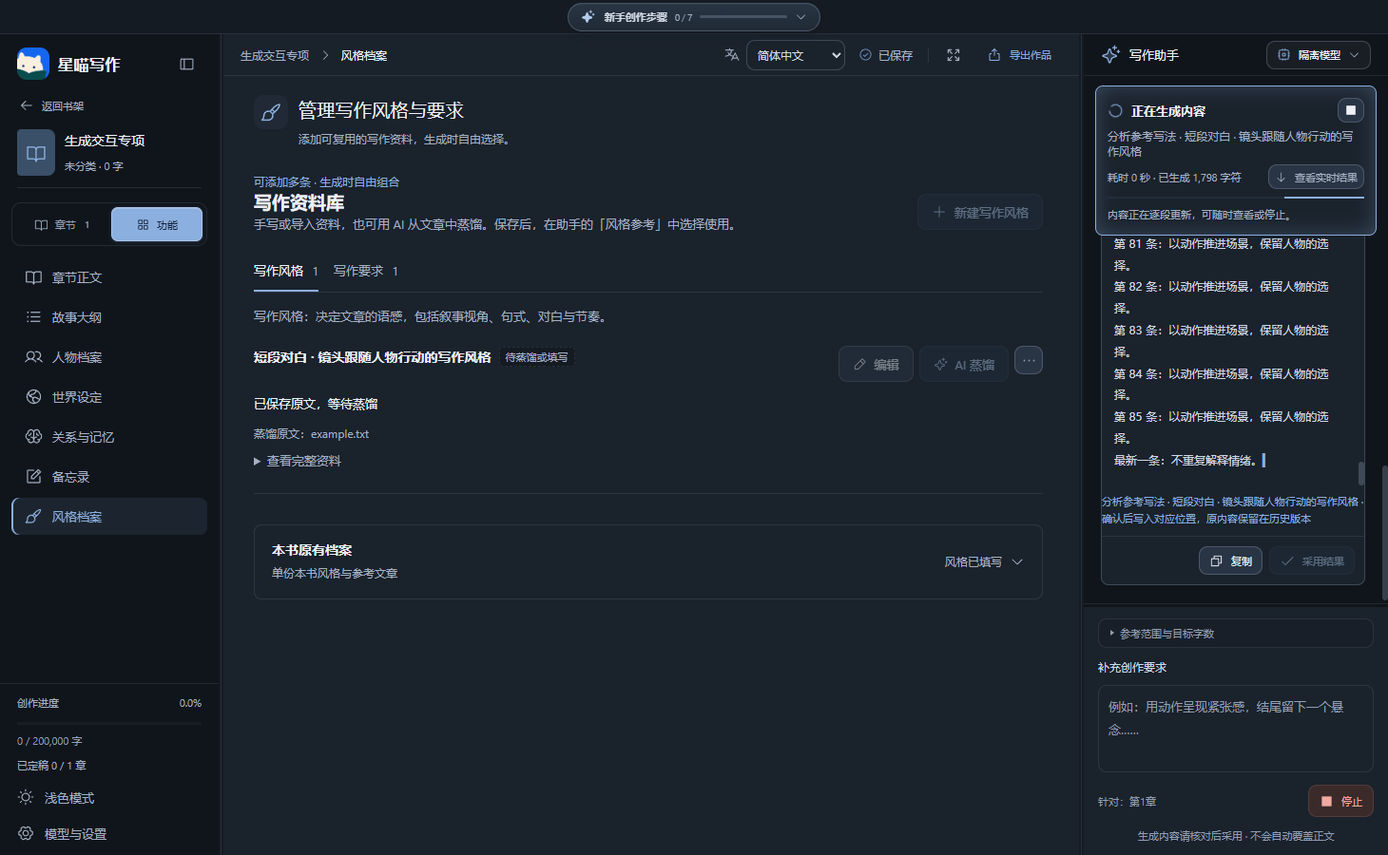
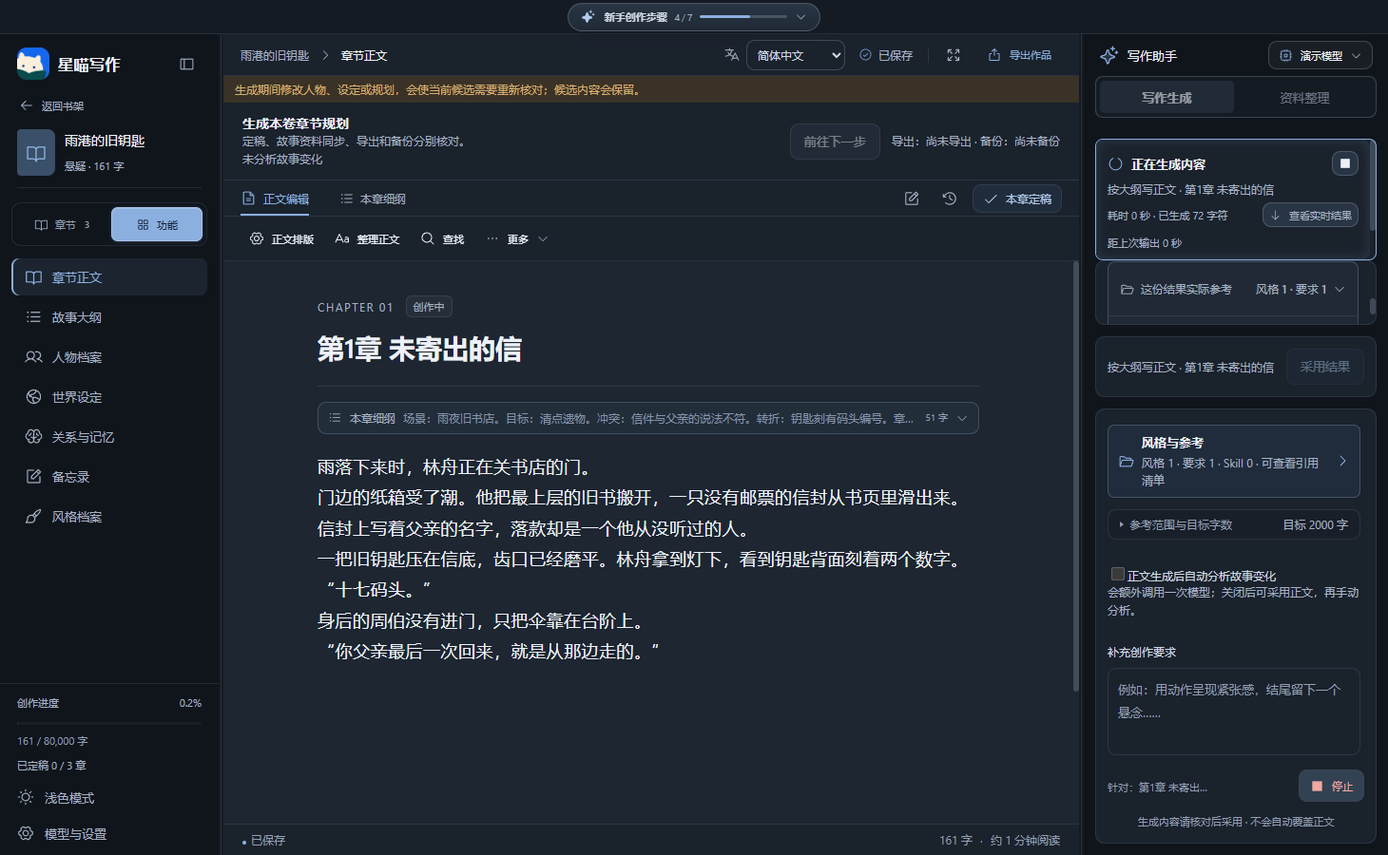
docs: release v0.6.10 with current full-edition screenshots and guides

diff --git a/docs/features.md b/docs/features.md
@@ -1,99 +1,27 @@
-# 星喵写作 v0.6.9 功能说明
+# 星喵写作 v0.6.10 功能说明
 
-## v0.6.9 风格选择与引用清单
+**会员免费，无需付费开通。** 完整版区分会员与普通用户，是为了管理创作广场提示词库及相关权限，不是收费套餐。第三方模型和生图费用由服务商决定。开源版不含账号和广场。
 
-- 生成按钮上方常驻风格与参考入口，显示选中数量并直达风格选择和当前引用清单
-- 多条风格和要求按页签、已选/可选层级展示，支持搜索名称与来源、只看已选、分别清空；长列表独立滚动
-- 引用清单按实际请求资料分组，定向蒸馏不误报其他作品资料；候选稿保留当时的引用快照
-- 资料库增加搜索与状态筛选，目标字数直接显示，窄窗口管理入口、较小设置区及空/失败状态更清楚
+## 主要功能
 
-[使用说明](风格选择与参考资料说明.md) · [本次检查](检查记录-v0.6.9.md)
+- 短篇由想法、简纲直接拆章；长篇按总纲、分卷、卷纲/细纲、章规划、正文逐步生成与采用，名称与内容同步到对应位置。
+- 人工码字板：独立草稿、专注计时、目标统计、查找替换、稿件历史与存入作品。
+- 写作助手：写作、续写、润色与检查，实际生成状态、停止入口、候选预览和防覆盖检查。正文变化分析可选，采用后仍可重新分析。
+- 资料整理助手：查询与调整人物、世界、关系、时间线、伏笔和规划资料；逐项核对采纳、重新核对、撤销与删除恢复。该助手不读取或修改章节正文、章纲、风格档案和备忘录。
+- 风格、要求与Skill：多条资料编辑、导入蒸馏、选择与删除；每次生成单独选择并核对实际引用。14项可编辑内置写法，默认不强制启用。
+- 本地书架、归档、分卷章节、人物世界、图谱、时间线、资料画布、备忘录、历史和回收站；中英界面及深浅主题。
+- 章节定稿后由作者确认完结，改稿取消完结；TXT/Markdown导出、JSON备份与副本恢复。
 
-## v0.6.8 生成反馈与风格页面优化
+## 数据与使用边界
 
-- 写作助手顶部常驻真实生成状态：准备资料、等待响应、接收内容、分析变化，显示耗时与已生成字符数
-- 生成中增加柔和流光边框、流动细线与旋转图标；支持减少动态效果，完成、停止与失败后结束动画
-- 流式内容跟随最新段落，向上阅读自动暂停，可一键恢复；中央生成入口直接定位本次候选，及时刷新模型暂停前的最后一段
-- 写作资料库按风格与要求说明用途，标示已选用、可选用或待填写；导出删除收入更多菜单，本书原有档案独立收起
+作品保存在本机，书库位置可在设置中更换。安装目录与书库独立，更新或迁移前请备份。
 
-[界面操作说明](生成进度与风格页面说明.md) · [本次检查](检查记录-v0.6.8.md)
+JSON备份包括最终作品资料、章节及历史、Skill和回收站；**不包含模型密钥、账号会话、资料整理对话及方案撤销历史**。恢复创建副本，旧对话不能用于撤销，但回收资料仍可恢复。
 
-## v0.6.7 风格与要求资料库
+AI请求把本次选中的正文和资料发送到配置的模型服务，输出需作者审核。本地模拟检查不代表真实模型质量或网络可用性。Windows x64安装包未配置代码签名证书。
 
-- 风格档案新增多条写作风格与写作要求，可新建、编辑、删除恢复、导入和导出
-- 支持为风格和要求分别导入原文并用 AI 蒸馏，预览后采用到指定条目，保留编辑历史
-- 本次参考资料新增风格参考，可分别选择多条风格和要求，仅发送选中内容并保留本次使用记录
-- 兼容原本书风格，新增资料随作品 JSON 备份恢复，阻止陈旧结果覆盖新资料
+## 版本范围
 
-[操作说明](风格与写作要求使用说明.md) · [本次检查](检查记录-v0.6.7.md)
+开源核心版包含上述共有功能。完整版另含工具箱、生图、账号、广场及更新，在线功能依赖对应服务端。
 
-## v0.6.6 广场删除修复
-
-上传者可以删除自己已添加到本机的共享内容，服务器继续核验身份；删除原件后本机副本保留。
-
-## v0.6.5 人工码字与界面更新
-
-- 人工码字板：临时稿、章节独立草稿、存入作品、冲突恢复、TXT 导出与稿件历史。
-- 专注计时、写作目标、查找替换、撤销与字体字号行距；正文排版与 AI 工作台共用规则。
-- 灵感助手、作品备忘录、整篇/片段引用；生成讨论与正式正文分开。
-- 分组工具栏、可收起侧栏与窄屏适配；分卷父层级、本卷章节与完成状态更清晰。
-
-[人工码字操作说明](人工码字板使用说明.md)
-
-**会员免费，无需付费开通。** 完整版中的会员与普通用户区分，仅用于方便管理广场提示词库、区分相关权限，不是收费套餐。第三方 AI 模型和生图 API 可能由服务商计费，与免费会员无关。开源核心版不包含账号、会员和广场模块。
-
-检查与整理日期：2026-10-09。适用 Windows x64；离线编辑不需要账号，AI 任务需要用户自己的模型服务。
-
-## 分步创作
-
-想法 → 全文大纲 → 分卷 → 卷大纲/细纲 → 章节大纲/细纲 → 正文 → 完成。每步生成后预览、采用，卷名、章名和内容会写入对应位置，并提示下一步。
-
-[完整操作与采用规则](分步创作流程与采用说明.md) · [本次检查记录](检查记录-v0.6.4.md)
-
-## 功能地图
-
-| 模块 | 目前可用能力 | 使用说明 |
-| --- | --- | --- |
-| 书架 | 新建、搜索、最近作品、归档、删除、回收站 | 示例由用户主动创建，不混入真实作品 |
-| 正文与章节 | 自动保存、手动保存、专注、字号、字数、查找、复制、章节复制、定稿、历史恢复 | 切章、返回书架和正常关闭前会等待保存；强制断电仍可能丢失尚未保存的修改 |
-| 大纲与分卷 | 总纲、分卷、卷大纲/细纲、章节概要/细纲、归卷、目标字数 | 删除分卷保留章节；分步 AI 结果先预览再采用 |
-| 人物与世界 | 人物档案、世界背景、身份/阵营/生存变化、世界事件 | 已发生、计划、待复核分开；修改旧章会使相关来源失效 |
-| 图谱与时间线 | 拖动缩放、连线编辑、按章回看、多种时间线布局 | 生成采用章首事实，后续章节不会当作已经发生 |
-| 资料画布 | 常规/画布切换、节点拖动、位置保存、标注与来源编辑 | 布局与标注不会自动改写正式事实；来源编辑复用原功能 |
-| 作者资料 | 备忘录、规则、伏笔、风格、参考原文与结构化记忆 | 风格参考支持 UTF-8 TXT/Markdown；不导入 DOCX/PDF |
-| AI 写作 | 写正文、续写、润色、总纲/卷纲/章纲、人物、世界、检查、风格分析、记忆提取 | 结果先放候选区，采用前检查原文和上下文是否变化 |
-| 同步审核 | 生成后分析人物/关系/世界变化，证据审核与勾选确认 | 分析失败保留正文；确认采用后才写入正式资料 |
-| 模型 | 多套配置、连接测试、兼容 Chat Completions、自选输出参数、可选本机 Codex | API 密钥使用 Windows 加密存储；不同接口需自行确认兼容性 |
-| 本地 Skill | 创建、编辑、启停、任务绑定、SKILL.md 导入导出 | 仅复用文字指令，不执行脚本 |
-| 备份与输出 | 整书 Markdown、单章 TXT、JSON 副本恢复、回收站 | JSON 保留作品、版本、资料、画布与候选，不包含 API 密钥和账号会话；系统设置不是完整备份范围 |
-| 数据目录 | 查看、打开、更换、迁移、恢复默认 | 更换后需重启；迁移保留原库和目标旧库，切勿把目录放进安装位置 |
-| 界面 | 简体中文/English、深浅主题、紧凑布局 | 英文长度显示为字符数，不是英文单词数 |
-| 创意工具箱（完整版） | 脑洞、书名、简介、大纲、细纲、开篇、金手指、名字、人设、世界、词条、对标辅助 | 文字生成需要模型；对标任务要求提炼抽象机制、生成原创方案 |
-| 封面（完整版） | OpenAI Images 兼容接口生成、预览与保存 | 另配生图地址、模型和密钥；封面生成结果不保证精确排字 |
-| 账号与广场（完整版） | 飞书登录、在线等级校验、提示词/Skill 浏览、上传、下载和添加使用 | 依赖维护者的远程服务；开源核心版不包含这些服务 |
-| 更新（完整版） | 检查、下载、取消、安装重启与安装前备份 | 使用 HTTPS 更新源；更新时显示安装向导并可选择目录 |
-
-## 更新安装目录
-
-更新安装会打开安装向导，允许选择安装目录；新版客户端默认带入当前程序所在目录。v0.6.4 安装包收到旧客户端的静默更新请求时，也会显示向导，请在安装前确认目录位于你希望的磁盘。安装目录与书库目录独立，更换安装位置不会自动迁移作品。
-
-## 新用户操作顺序
-
-1. 安装对应版本，打开示例体验或新建作品。
-2. 填写简介、总纲、人物和世界资料，建立分卷和章节。
-3. 手动编辑即可离线写作；需要 AI 时打开“模型与设置”配置自己的接口或本机 Codex。
-4. 生成结果先审阅；采用后检查正文，再审核资料同步清单。
-5. 章节稳定后定稿和提取记忆；修改前文后复核失效记忆。
-6. 定期导出 JSON 备份；跨完整/开源版本迁移用备份恢复，不直接替换正在运行的数据库。
-
-## 版本与数据
-
-完整软件和开源版使用独立书库；数据路径以设置中实际显示为准。安装程序不包含个人作品或预置密钥。卸载配置保留书库，但仍建议先导出备份。
-
-正文发送给所配置的 AI 服务仅发生在用户启动相关任务时；在线账号/广场另连维护者服务。没有配置模型也能使用本地编辑、资料和备份。API 服务可能计费，自动资料分析也可能产生额外请求。
-
-## 当前边界
-
-目前没有多人协作/跨设备云同步、向量检索、自动重建全部失效记忆、DOCX/PDF 导入导出、全书批量查找替换、拖动调整章序、备份定时任务和用户可见的备份轮换管理。AI 连续性检查与来源校验不能保证故事零矛盾。
-
-封面生成没有专门的停止入口。在线登录、供应商模型、封面接口与实际更新下载受远程服务状态影响，本次自动回归使用模拟服务，不能替代真实账号和网络验收。
+[资料整理](资料整理使用说明.md) · [创作步骤](分步创作流程与采用说明.md) · [人工码字](人工码字板使用说明.md) · [本次验证](检查记录-v0.6.10.md)

diff --git a/README.md b/README.md
@@ -1,91 +1,77 @@
 # 星喵写作 · 完整版下载
 
-**会员免费，无需付费开通。** 完整版中的会员与普通用户区分，仅用于方便管理广场提示词库、区分相关权限，不是收费套餐。第三方 AI 模型和生图 API 可能由服务商计费，与免费会员无关。开源核心版不包含账号、会员和广场模块。
+本地小说工作台，支持人工码字、AI写作与资料整理。本仓库分发完整版软件；[MIT核心源码](https://github.com/z55902383-debug/xingmiao-writer-core)单独维护。
 
-本地优先的 Windows AI 小说工作台。本仓库用于分发完整软件；[开源核心源码](https://github.com/z55902383-debug/xingmiao-writer-core)单独维护。
+**v0.6.10 · Windows x64**
 
-## 下载
+[下载完整版安装包](https://github.com/z55902383-debug/xingmiao-writer-releases/releases/download/v0.6.10/XingmiaoWriter-0.6.10-x64-Setup.exe) · [开源版](https://github.com/z55902383-debug/xingmiao-writer-core/releases/tag/v0.6.10) · [更新与附件](https://github.com/z55902383-debug/xingmiao-writer-releases/releases/tag/v0.6.10)
 
-- [完整版 v0.6.9 Windows x64 安装包](https://github.com/z55902383-debug/xingmiao-writer-releases/releases/download/v0.6.9/XingmiaoWriter-0.6.9-x64-Setup.exe)
-- [开源核心版安装包](https://github.com/z55902383-debug/xingmiao-writer-core/releases/download/v0.6.9/XingmiaoWriter-Core-0.6.9-x64-Setup.exe)
-- [完整版更新与附件](https://github.com/z55902383-debug/xingmiao-writer-releases/releases/tag/v0.6.9)
+**会员免费，无需付费开通。** 完整版区分会员与普通用户，是为了管理创作广场提示词库及相关权限，不是收费套餐。第三方模型和生图费用由服务商决定。开源版不含账号和广场。
 
-## v0.6.9 风格选择与引用清单
+## 界面预览
 
-- 生成按钮上方常驻风格与参考入口，显示选中数量并直达风格选择和当前引用清单
-- 多条风格和要求按页签、已选/可选层级展示，支持搜索名称与来源、只看已选、分别清空；长列表独立滚动
-- 引用清单按实际请求资料分组，定向蒸馏不误报其他作品资料；候选稿保留当时的引用快照
-- 资料库增加搜索与状态筛选，目标字数直接显示，窄窗口管理入口、较小设置区及空/失败状态更清楚
+v0.6.10实际界面，以独立演示作品拍摄，不含个人书库、密钥或账号会话。
 
-[使用说明](docs/风格选择与参考资料说明.md) · [本次检查](docs/检查记录-v0.6.9.md)
+![当前书架](docs/assets/library.png)
 
-![常驻风格入口与多条参考选择](docs/assets/reference-controls.png)
+### 写作与规划
 
-## v0.6.8 生成反馈与风格页面优化
+![写作工作台](docs/assets/workspace.png)
 
-- 写作助手顶部常驻真实生成状态：准备资料、等待响应、接收内容、分析变化，显示耗时与已生成字符数
-- 生成中增加柔和流光边框、流动细线与旋转图标；支持减少动态效果，完成、停止与失败后结束动画
-- 流式内容跟随最新段落，向上阅读自动暂停，可一键恢复；中央生成入口直接定位本次候选，及时刷新模型暂停前的最后一段
-- 写作资料库按风格与要求说明用途，标示已选用、可选用或待填写；导出删除收入更多菜单，本书原有档案独立收起
+![分卷与章节规划](docs/assets/planning.png)
 
-[界面操作说明](docs/生成进度与风格页面说明.md) · [本次检查](docs/检查记录-v0.6.8.md)
+### 资料整理与风格参考
 
-![生成时常驻的助手进度](docs/assets/generation-activity.png)
+![资料整理助手](docs/assets/knowledge-assistant.png)
 
-![资料库与原本书档案分层](docs/assets/writing-profile-library.png)
+![写作风格与要求资料库](docs/assets/writing-profile-library.png)
 
-## v0.6.7 风格与要求资料库
+![每次生成的风格、Skill与参考选择](docs/assets/reference-controls.png)
 
-- 风格档案新增多条写作风格与写作要求，可新建、编辑、删除恢复、导入和导出
-- 支持为风格和要求分别导入原文并用 AI 蒸馏，预览后采用到指定条目，保留编辑历史
-- 本次参考资料新增风格参考，可分别选择多条风格和要求，仅发送选中内容并保留本次使用记录
-- 兼容原本书风格，新增资料随作品 JSON 备份恢复，阻止陈旧结果覆盖新资料
+### 人工码字
 
-[操作说明](docs/风格与写作要求使用说明.md) · [本次检查](docs/检查记录-v0.6.7.md)
+![人工码字板](docs/assets/manual-writing.png)
 
-## v0.6.6 广场删除修复
+<details><summary>浅色书架、生成状态与设置</summary>
 
-修复已添加到本机的资源无法点击删除的问题。服务器继续核验上传者，删除共享原件后保留本机副本。[更新与验证](docs/广场删除修复-v0.6.6.md)
+![浅色书架](docs/assets/library-light.png)
 
-## 功能
+![生成状态](docs/assets/generation-activity.png)
 
-书架、章节与分卷、大纲、人物与世界、关系图谱、时间线、资料画布、AI 写作与候选审核、来源记忆、本地 Skill、历史版本、备份恢复、中英双语与深浅主题。
+![模型与本地设置](docs/assets/settings.png)
 
-完整版另含创意工具箱、封面生成、飞书账号、会员与共享广场服务及安装更新。离线编辑无需登录；AI 和生图需要自己的模型配置，可能产生费用。账号与广场依赖维护者的在线服务。
+![用户名密码登录入口](docs/assets/account-login.png)
 
-[功能说明](docs/features.md) · [检查报告与已知限制](docs/检查记录-v0.6.7.md)
+</details>
 
-## 分步创作流程
+## 主要功能
 
-想法 → 全文大纲 → 分卷 → 卷大纲/细纲 → 章节大纲/细纲 → 正文 → 完成。逐步生成并采用，同步卷名、章名与内容，保留已有正文并提示下一步。长规划改为摘要预览和完整阅读。
+- 短篇由想法、简纲直接拆章；长篇按总纲、分卷、卷纲/细纲、章规划、正文逐步生成与采用，名称与内容同步到对应位置。
+- 人工码字板：独立草稿、专注计时、目标统计、查找替换、稿件历史与存入作品。
+- 写作助手：写作、续写、润色与检查，实际生成状态、停止入口、候选预览和防覆盖检查。正文变化分析可选，采用后仍可重新分析。
+- 资料整理助手：查询与调整人物、世界、关系、时间线、伏笔和规划资料；逐项核对采纳、重新核对、撤销与删除恢复。该助手不读取或修改章节正文、章纲、风格档案和备忘录。
+- 风格、要求与Skill：多条资料编辑、导入蒸馏、选择与删除；每次生成单独选择并核对实际引用。14项可编辑内置写法，默认不强制启用。
+- 本地书架、归档、分卷章节、人物世界、图谱、时间线、资料画布、备忘录、历史和回收站；中英界面及深浅主题。
+- 章节定稿后由作者确认完结，改稿取消完结；TXT/Markdown导出、JSON备份与副本恢复。
 
-[操作与采用规则](docs/分步创作流程与采用说明.md) · [本次检查](docs/检查记录-v0.6.5.md)
+## 完整版附加功能
 
-## v0.6.5 人工码字与界面更新
+创意工具箱、封面生图、账号、会员、共享广场及安装更新。离线编辑无需登录。账号和广场依赖维护者后端；用户名密码入口需要服务端部署相应账号接口。手机号是联系信息，不用于自动证明账号归属。AI与生图需要自己的服务配置。
 
-- 人工码字板：临时稿、章节独立草稿、存入作品、冲突恢复、TXT 导出与稿件历史。
-- 专注计时、写作目标、查找替换、撤销与字体字号行距；正文排版与 AI 工作台共用规则。
-- 灵感助手、作品备忘录、整篇/片段引用；生成讨论与正式正文分开。
-- 分组工具栏、可收起侧栏与窄屏适配；分卷父层级、本卷章节与完成状态更清晰。
+## 安装与更新
 
-[人工码字操作说明](docs/人工码字板使用说明.md)
+下载Setup.exe按向导安装，可选择D盘等目录。更新先保存编辑内容并备份，再打开安装向导，默认带入当前程序目录；安装前请确认位置。安装位置变化不会自动迁移书库。
 
-## 更新安装目录
+## 数据与使用边界
 
-更新安装会打开安装向导，允许选择安装目录；新版客户端默认带入当前程序所在目录。v0.6.5 安装包收到旧客户端的静默更新请求时，也会显示向导，请在安装前确认目录位于你希望的磁盘。安装目录与书库目录独立，更换安装位置不会自动迁移作品。
+作品保存在本机，书库位置可在设置中更换。安装目录与书库独立，更新或迁移前请备份。
 
-## 安装与数据
+JSON备份包括最终作品资料、章节及历史、Skill和回收站；**不包含模型密钥、账号会话、资料整理对话及方案撤销历史**。恢复创建副本，旧对话不能用于撤销，但回收资料仍可恢复。
 
-下载 Setup.exe 安装。已带更新功能的完整版可在“模型与设置 → 版本与更新”检查、下载和安装。定期通过 JSON 导出作品备份。
+AI请求把本次选中的正文和资料发送到配置的模型服务，输出需作者审核。本地模拟检查不代表真实模型质量或网络可用性。Windows x64安装包未配置代码签名证书。
 
-完整版和开源版使用独立书库；跨版本迁移使用 JSON 备份/副本恢复，不互换运行中的数据库。安装包不包含个人作品或模型密钥。Windows x64 为本次交付平台，安装包未配置代码签名证书。
+## 说明与反馈
 
-## 版本与许可
+[功能说明](docs/features.md) · [资料整理](docs/资料整理使用说明.md) · [创作流程](docs/分步创作流程与采用说明.md) · [人工码字](docs/人工码字板使用说明.md) · [风格参考](docs/风格选择与参考资料说明.md) · [本次检查](docs/检查记录-v0.6.10.md)
 
-开源核心版包含主要本地写作工作台，采用 MIT。创意工具箱、生图、账号、会员、广场和内置更新属于完整版附加模块；核心源码 MIT 不表示所有完整版附加模块同样采用 MIT。
-
-安装包附带第三方运行时许可。AI 结果和故事连续性需要作者审核；真实模型、账号和网络环境的限制见检查报告。
-
-## 反馈
-
-请通过 Issues 附上版本、复现步骤和错误提示，不要上传 API 密钥、账号会话或私人小说。开发与贡献请访问[开源核心仓库](https://github.com/z55902383-debug/xingmiao-writer-core)。
+完整版附加模块未开源，核心MIT许可不覆盖附加模块。反馈通过Issues提供版本和复现步骤，不附账号会话、密钥或私人小说。

diff --git a/docs/检查记录-v0.6.10.md b/docs/检查记录-v0.6.10.md
@@ -1,0 +1,24 @@
+# v0.6.10 发布检查 · 2026-10-14
+
+## 本次范围
+
+更新短篇与长篇创作流程、资料整理助手、候选恢复、完结状态、提示词与Skill、风格参考及界面层级。完整版新增用户名密码账号入口与广场界面；账号可用性依赖维护者后端部署，此轮没有部署后端。
+
+两个GitHub首页均重拍当前版书架截图，并更新写作、规划、资料整理、风格与参考、人工码字、生成状态、设置、浅色主题截图；完整版另附登录入口截图。独立演示作品不来自作者书库。
+
+## 验证
+
+- 完整版190项、开源版158项单元测试通过。
+- 两版类型检查与前端构建通过，保留原有体积提示。
+- 两版新手短篇、生成后改稿恢复、分析重试、作者确认完结、导出及备份副本恢复检查通过。
+- 两版长篇从想法到两章正文、定稿和作者确认完结检查通过，包括1024×768生成按钮位置。
+- 两版资料整理专项与逐项采纳、重新核对、清空对话后删除恢复、回收记录备份专项通过。
+- 旧桌面脚本已同步到当前按钮、默认不勾选、恢复最后打开章节及英文导航规则。正式桌面检查覆盖书架、AI、旧版本行为、时间线、规划、图谱、故事同步、画布与双语。
+- 打包后实际程序通过独立书库启动、保存正文、关闭再启动及版本检查。
+- 安装包内主进程与界面文件匹配当前构建；完整版latest.yml的SHA512匹配安装包。开源包未包含完整版账号、广场、更新模块。
+
+## 边界
+
+模型检查使用本地模拟服务，未调用作者真实模型或修改真实书库。此轮不声称真实AI文学质量、所有供应商或长期大部头通过。未在作者电脑执行覆盖安装或卸载；安装向导目录配置保留，打包程序在独立测试目录运行。安装包未配置代码签名证书。
+
+JSON备份包含最终作品资料、章节历史、Skill和回收站，不包含密钥、账号会话、资料整理对话和方案撤销历史。

diff --git a/docs/GitHub上传步骤.md b/docs/GitHub上传步骤.md
@@ -1,0 +1,14 @@
+# GitHub上传与发布 · v0.6.10
+
+现有仓库：[开源源码](https://github.com/z55902383-debug/xingmiao-writer-core)、[完整软件下载](https://github.com/z55902383-debug/xingmiao-writer-releases)。
+
+1. 源码仅使用“星喵写作【开源】/发布源码/xingmiao-writer-core-0.6.10”干净目录；确认没有私人作品、数据库、密钥、依赖和测试输出。
+2. GitHub Desktop打开该仓库，提交源码、README和docs截图说明，推送现有开源仓库main。不上传整个完整版开发目录。
+3. 创建标签v0.6.10和Release，附开源安装包、源码ZIP、功能说明、检查记录、更新说明与SHA256SUMS-Core.txt。源码仓库不能只有ZIP。
+4. 完整版仓库仅更新公开README、截图和使用说明，不上传附加模块源码或服务端凭据。
+5. 完整版Release附完整安装包、同次构建latest.yml、功能说明、更新说明、检查记录及SHA256SUMS-Full.txt。设为普通公开Release与Latest，以供内置更新使用。
+6. 核对两边首页实际截图、版本及下载链接；附件SHA256和清单SHA512必须匹配同一构建文件。
+
+两版安装包与说明位于“星喵写作【打包】/v0.6.10”。会员免费，模型服务费用另计。MIT只覆盖开源核心。
+
+发布结果见该版本目录的“GitHub发布完成.md”和“GitHub发布记录.json”。后续发布使用新版本号，不覆盖旧安装包。

diff --git a/docs/资料整理使用说明.md b/docs/资料整理使用说明.md
@@ -1,0 +1,9 @@
+# 资料整理助手使用说明
+
+在右侧选择“资料整理”，输入想查询、梳理或调整的内容。读取当前作品的故事简介、总纲、分卷、人物、世界、关系、记忆、时间线和伏笔，不读取或修改章节正文、章纲、风格资料及备忘录。
+
+建议不会直接写入。先核对清单，只勾选需要的项，再确认采纳。按真实记录显示写入数量与各项状态。剩余项不能沿用旧资料直接写入，可“重新核对未采纳项”生成新方案。
+
+撤销须资料仍与采纳后状态一致，避免覆盖后续编辑。删除人物、世界卡、事实记忆、时间线及伏笔进入回收站；清空对话不清空回收站。
+
+备份保存最终资料和回收站，不保存对话及方案撤销历史。恢复副本不能从旧对话撤销，但回收资料仍能恢复。模型请求可能计费，建议和证据需要作者核对。
